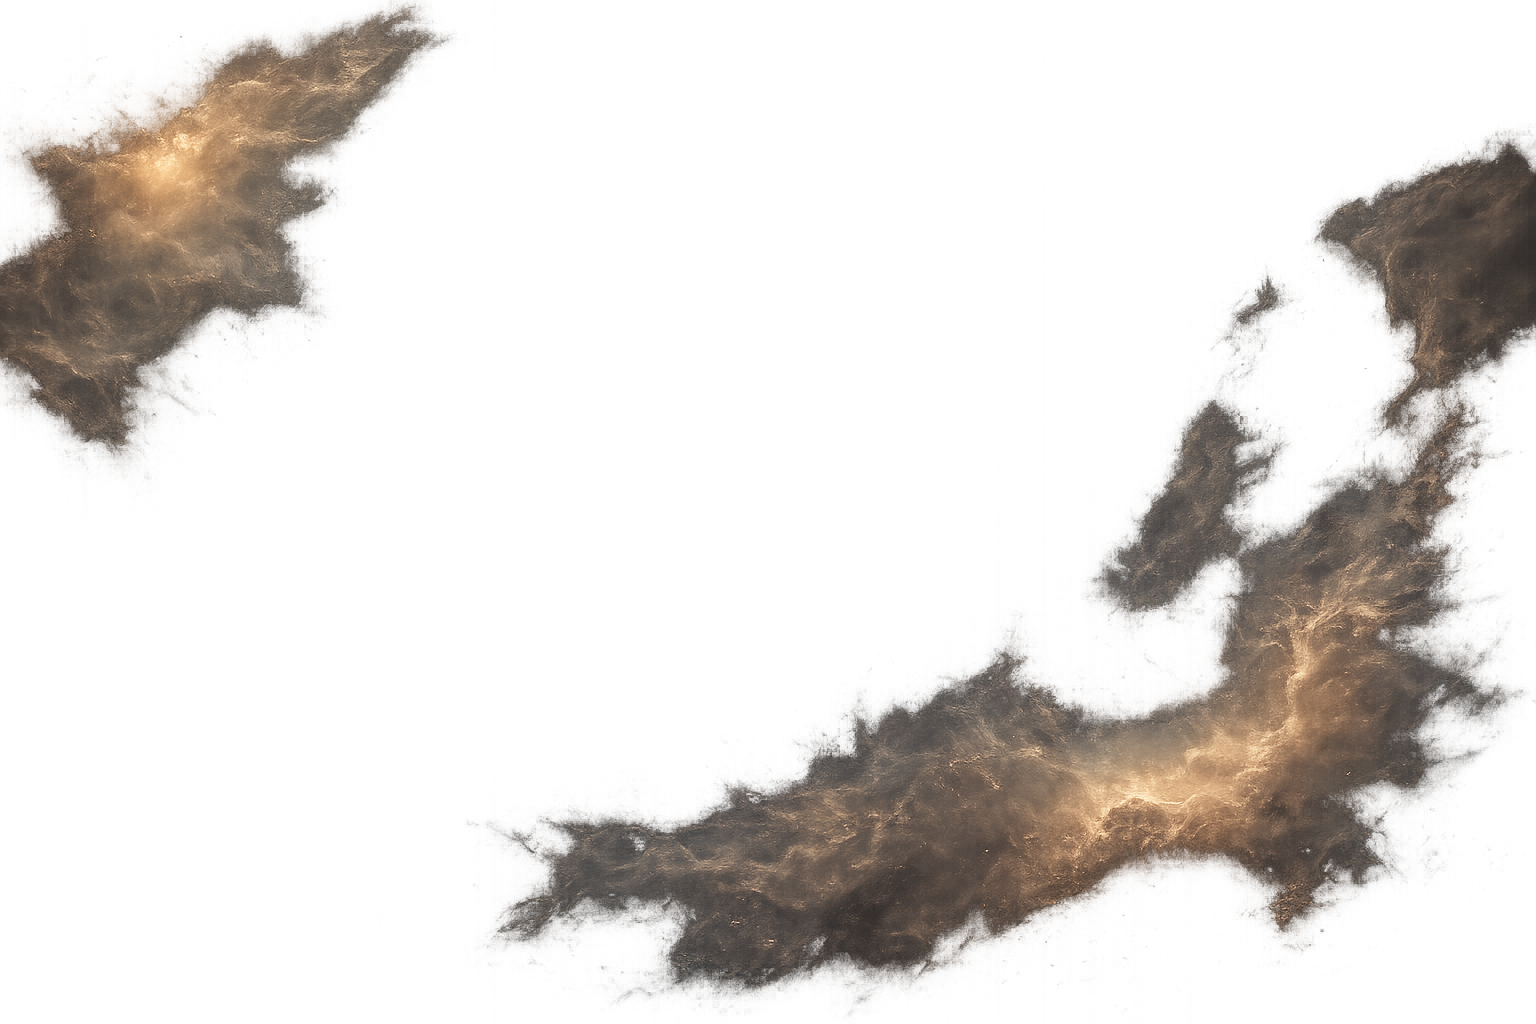
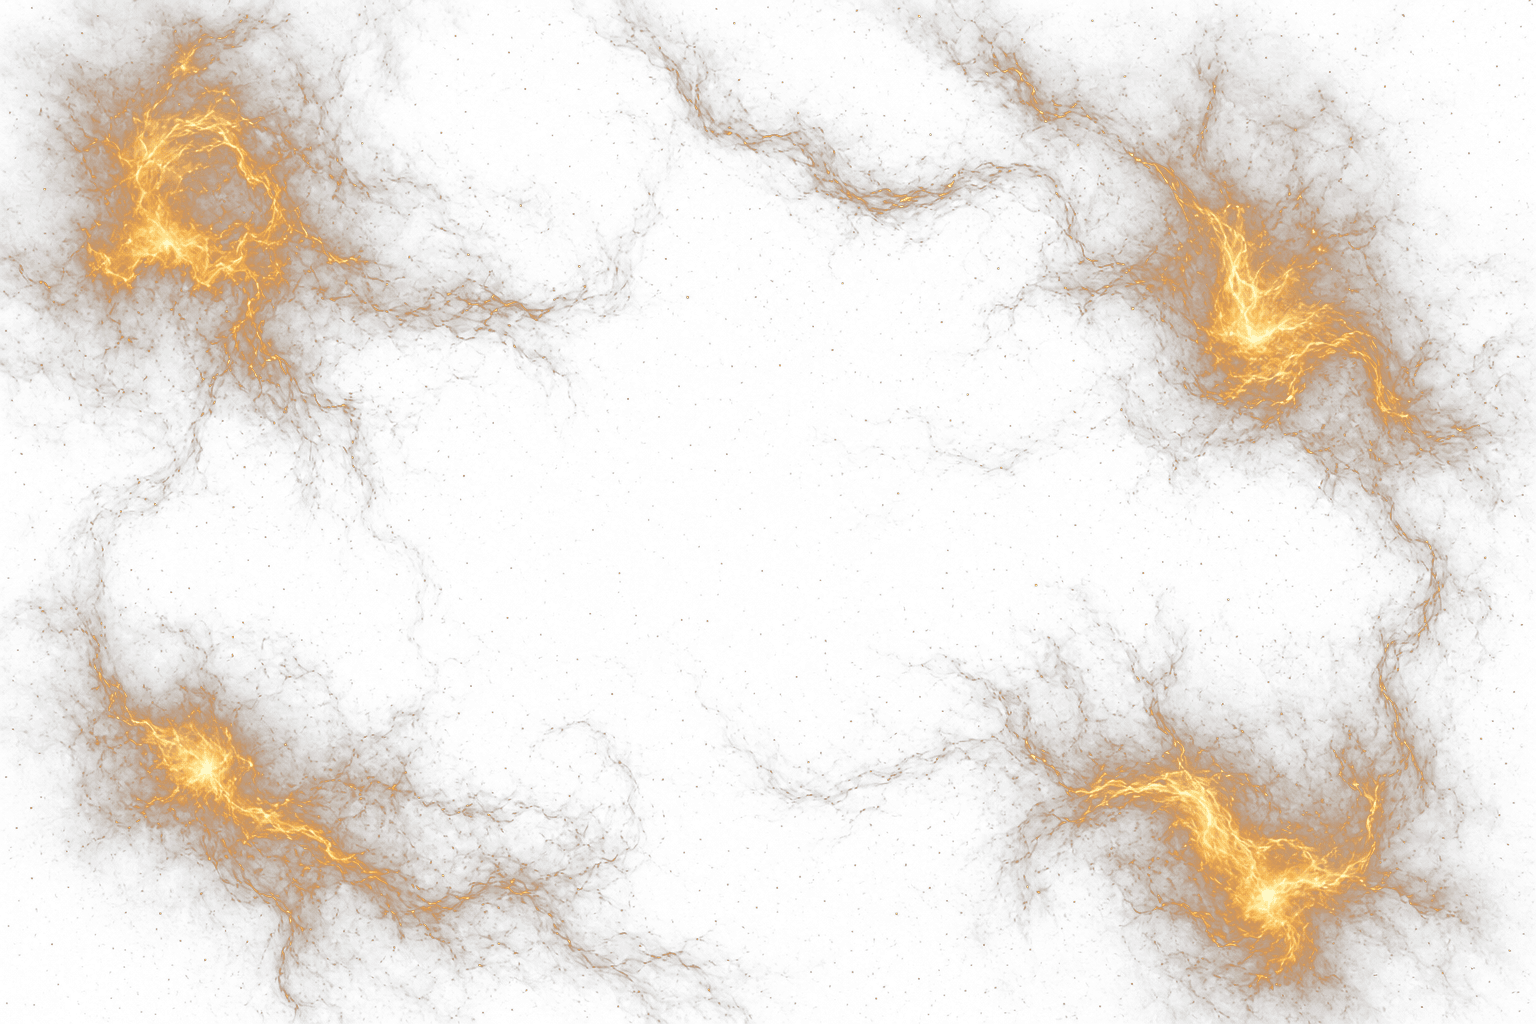
feat: Hero/Philosophy の AI 生成アセット刷新（warm-gold 統一・軽量化） (#192)
* asset: replace hero nebula layer with AI-generated v2 (569KB → -78%)

Refreshes the parallax nebula foreground with a higher-fidelity
AI-generated cloud featuring crisp warm-gold filament structures in the
corners while keeping the center dark and open for centered hero copy.

Dark background converted to luminance-based alpha so the layer composites
cleanly under mix-blend-mode: screen (.cosmic-nebula-layer) and the
desktop warm-grade sepia/saturate filter.

Original preserved as hero-nebula-layer-legacy.png.

* chore: generalize postinstall to purge all spurious "@user/* N" dirs

The previous postinstall only removed the "json5 2" artifact, but the same
macOS-style duplicate-naming issue recurs for other @user packages
(observed: "json-schema 2") and breaks `tsc` with TS2688. Iterate the
@user directory and remove any entry whose name ends in a space + digits.

* feat: add subtle warm-gold dust texture to philosophy panels

Introduces a lightweight (108KB) AI-generated cosmic dust texture overlaid
on each Philosophy panel via mix-blend-mode: screen at opacity 0.55, adding
tactile depth behind the centered copy without compromising readability or
the section's minimal "quietness" aesthetic.

Sparse warm-gold specks on a transparent (luminance-alpha) background composite
additively over the panel gradient. Shared single asset (browser-cached across
all 6 panels) keeps overhead minimal. Registered in background-assets SSOT.
[…]

diff --git a/components/PhilosophyContent.tsx b/components/PhilosophyContent.tsx
@@ -17,6 +17,7 @@ import {
 } from '@/lib/scroll/gsap-config';
 import { PHILOSOPHY_HORIZONTAL } from '@/lib/scroll/animation-tokens';
 import { getScrollRevealProps } from '@/lib/scroll/reveal-props';
+import { backgroundAssets } from '@/lib/design/background-assets';
 
 const sections = [
   {
@@ -213,6 +214,17 @@ export default function PhilosophyContent() {
               background: `linear-gradient(180deg, var(--background) 0%, ${item.bgTint} 50%, var(--background) 100%)`,
             }}
           >
+            {/* Dust texture: conditional-rendered (not just hidden) so the URL is
+                absent from the DOM on mobile/SSR — guarantees no image fetch.
+                Also suppressed for reduced-motion as a decorative-only asset. */}
+            {isReady && enableHorizontal && reduceMotion !== true && (
+              <span
+                aria-hidden="true"
+                className="pointer-events-none absolute inset-0 bg-cover bg-center opacity-[0.55] mix-blend-screen"
+                style={{ backgroundImage: `url(${backgroundAssets.philosophyDustTexture})` }}
+              />
+            )}
+
             <span
               data-overlay-letter
               aria-hidden="true"

diff --git a/lib/design/background-assets.ts b/lib/design/background-assets.ts
@@ -6,4 +6,5 @@ export const backgroundAssets = {
   heroNebulaLayer: '/hero-nebula-layer.png',
   heroParticleBand: '/hero-particle-band.webp',
   brandLogoTransparent: '/shape-d-logo-transparent.png',
+  philosophyDustTexture: '/philosophy-dust-texture.webp',
 } as const;

diff --git a/tests/design/background-assets.test.ts b/tests/design/background-assets.test.ts
@@ -8,5 +8,6 @@ describe('background assets', () => {
     expect(backgroundAssets.heroNebulaLayer).toBe('/hero-nebula-layer.png');
     expect(backgroundAssets.heroParticleBand).toBe('/hero-particle-band.webp');
     expect(backgroundAssets.brandLogoTransparent).toBe('/shape-d-logo-transparent.png');
+    expect(backgroundAssets.philosophyDustTexture).toBe('/philosophy-dust-texture.webp');
   });
 });

diff --git a/documents/spec/philosophy-page.md b/documents/spec/philosophy-page.md
@@ -4,7 +4,7 @@ Issue: #81
 
 ## 概要
 
-`/philosophy` を SHAPE∞D の各文字（S/H/A/P/E/D）を軸にした full-screen スクロール体験へ再構築する。追加画像・動画・WebGL は使用しない。
+`/philosophy` を SHAPE∞D の各文字（S/H/A/P/E/D）を軸にした full-screen スクロール体験へ再構築する。動画・WebGL は使用しない。背景画像はデスクトップ限定の subtle なダストテクスチャ（`philosophy-dust-texture.webp`、108KB）1 枚のみ。モバイルは Issue #81 / #51 のパフォーマンス方針に従い画像なしを維持する。
 
 ## ページ構成
 
@@ -21,6 +21,7 @@ Issue: #81
 - **オーバーレイ文字**: 各セクション中央に `S`〜`D` を巨大表示。opacity `0.04`〜`0.08`（移動アニメーションなし）
 - **前景テキスト**: 見出し（`h2`）+ サブタイトル + 説明 + 詳細
 - **背景温度**: セクションごとに `bgTint` でグラデーション差分のみ変更
+- **ダストテクスチャ**: 各パネルに warm-gold の宇宙塵テクスチャ（`backgroundAssets.philosophyDustTexture`）を `mix-blend-mode: screen` / `opacity: 0.55` でオーバーレイ。`isReady && enableHorizontal && reduceMotion !== true` の条件を満たす場合のみ DOM に追加し、モバイル・coarse pointer デバイス・SSR 時は要素自体が存在しないため画像取得が発生しない。`aria-hidden` 装飾要素で可読性に影響しない。`prefers-reduced-motion` 時も非表示。
 
 ## アニメーション（GSAP + framer-motion）
 

diff --git a/documents/spec/star-background.md b/documents/spec/star-background.md
@@ -20,7 +20,7 @@ Issue: #1
 - **非利用（トップ Hero）**: `CosmicScene` 画像背景を使用（`design-system.md` 参照）
 - **非利用（Issue #93）**: ServicesContent / WorksContent — StarBackground Hero を廃止し単色背景 + ページ見出しに統一
 - **非利用（Issue #80）**: About / MissionVision — scroll storytelling 化に伴い StarBackground を外し、デザイントークン背景に統一
-- **非利用（Issue #81）**: `/philosophy` — CSS/GSAP のみの alphabet-driven ビジュアル（詳細は [`philosophy-page.md`](./philosophy-page.md)）
+- **非利用（Issue #81）**: `/philosophy` — CSS/GSAP ベースの alphabet-driven ビジュアル。デスクトップ（水平スクロールモード）限定で `philosophy-dust-texture.webp`（108KB）を装飾オーバーレイとして使用するが、StarBackground は非使用。詳細は [`philosophy-page.md`](./philosophy-page.md)
 
 ## 受け入れ基準（Given-When-Then）
 

diff --git a/documents/spec/design-system.md b/documents/spec/design-system.md
@@ -129,6 +129,7 @@ CSS 変数: `--content-prose` / `--content-standard` / `--content-wide`（`app/g
 | `hero-nebula-layer.png` | パララックス前景（`mix-blend-mode: screen`） |
 | `hero-particle-band.webp` | ロゴ背後の粒子帯（immersive のみ） |
 | `shape-d-logo-transparent.png` | 正規タイトルロゴ（透過 PNG、Nav / Hero / Footer 共通）。Hero 粒子形成（`LogoParticleFormation`）も同一 PNG のアルファからターゲット点をサンプリング |
+| `philosophy-dust-texture.webp` | Philosophy パネル背景の warm-gold 宇宙塵テクスチャ（透過 WebP、108KB、`mix-blend-mode: screen`）。`isReady && enableHorizontal && reduceMotion !== true` 条件レンダリング（モバイル・SSR・coarse pointer・reduced-motion 時は DOM に存在しないため画像取得なし）。詳細は [`philosophy-page.md`](./philosophy-page.md) |
 
 寸法 SSOT: `lib/design/brand-logo-constants.ts`（1536×1024、hero 最大幅 `min(88vw, 560px)`）
 